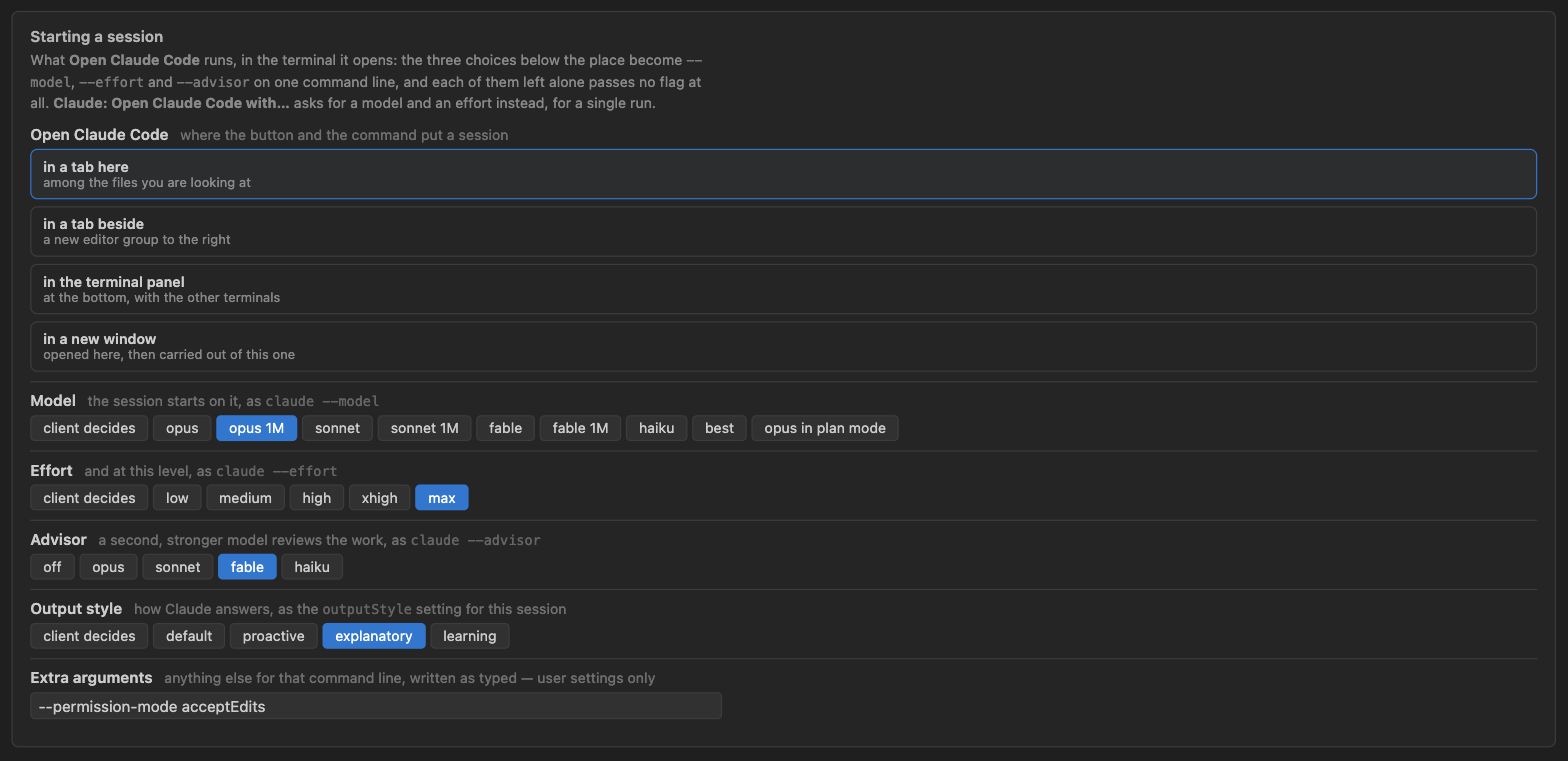
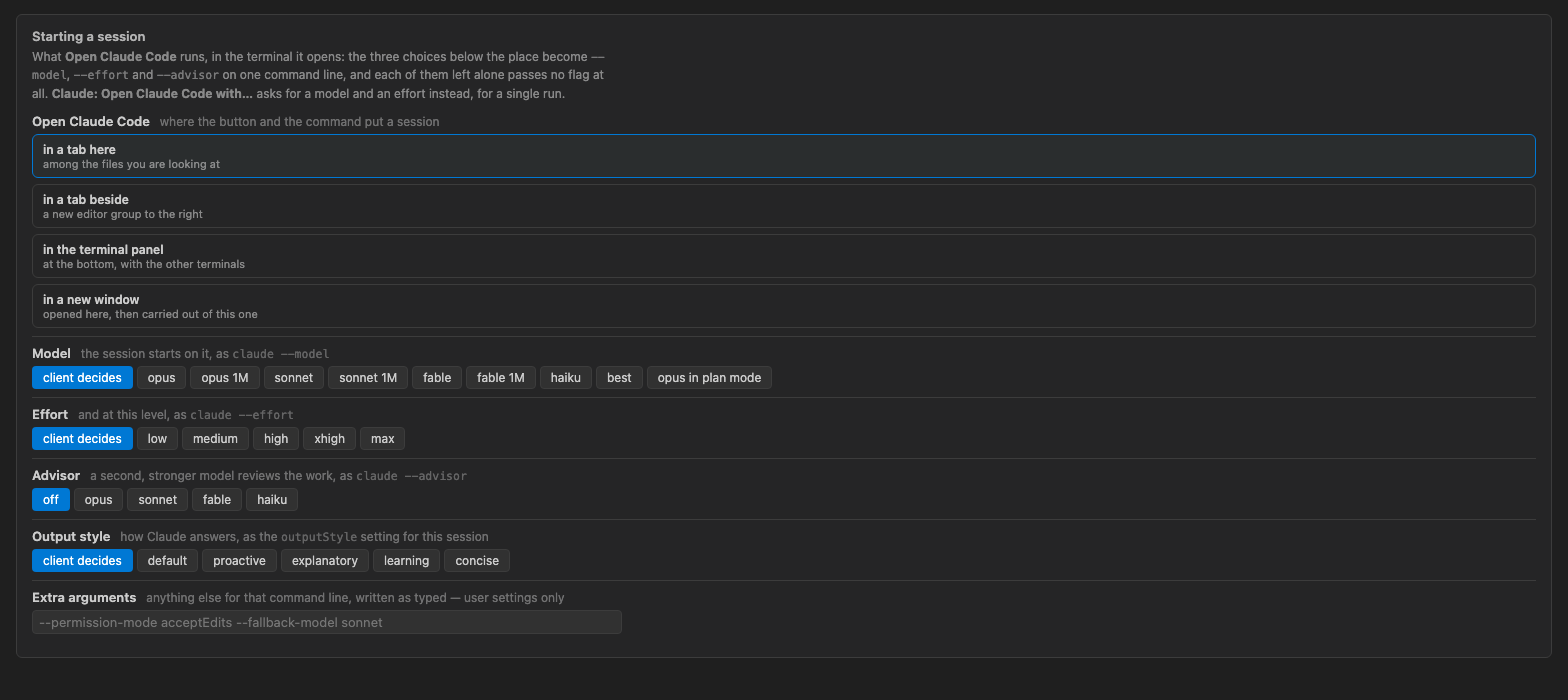
fix(session): the panel shows the style the session was actually started with
The client has no `--output-style` flag, so "Open Claude Code with…" puts the
style in `--settings` JSON. The session panel then read it back out of the
settings files, where it had never been written, and drew nothing — so the one
setting this extension is best placed to know was the one it never showed. On a
machine that launches its sessions from the dashboard, that is every session.

It now comes off the session's own command line, through the `ps` call that was
already there for parent pids, with the same Windows branch and the same
timeout. The argument beats the file on purpose rather than as a tie-break: the
client compiles the style into the system prompt at session start and does not
reload it, so a file edited since then states what the next session will get,
not what this one is running.

Nobody noticed because the terminal statusline shows the style all along — the
client hands it one directly. A neighbouring product being right is a good way
to stay wrong.

Added on the way: `Concise`, the style the client shipped in 2.1.237, which
could not be picked here at all. The list is a closed one — a claim about
someone else's release — and it had gone stale silently while the comment above
it still said there were four. The listing shot of the launch panel showed the
old five chips, so it is re-shot; nothing else about that picture changed.

Changed region(s): [[0.0, 0.03, 1.0, 0.96]]

diff --git a/session.js b/session.js
@@ -593,15 +593,69 @@ function compareVersions(a, b) {
     return 0;
 }
 
-// Settings the transcript does not carry — output style and advisor model —
-// read from the same chain the client reads.
-function settingsOf(workspace, chain) {
+/**
+ * The output style a running session was started with, out of its own command
+ * line. The client has no `--output-style` flag, so this extension launches a
+ * session by putting the style in `--settings` JSON — and that is the one place
+ * it exists: the transcript does not carry it, and neither does the session
+ * registry. Reading it back out of the settings chain alone left the pill blank
+ * for every session the extension itself had started.
+ *
+ * Parsed by walking the braces rather than by a regular expression, so a value
+ * containing `}` cannot end the object early.
+ */
+function styleFromArgs(args) {
+    const line = String(args || '');
+    const flag = line.indexOf('--settings');
+    if (flag < 0) return '';
+    const open = line.indexOf('{', flag);
+    if (open < 0) return '';
+    let depth = 0, inString = false, escaped = false, end = -1;
+    for (let i = open; i < line.length; i++) {
+        const c = line[i];
+        if (escaped) { escaped = false; continue; }
+        if (c === '\\') { escaped = true; continue; }
+        if (c === '"') { inString = !inString; continue; }
+        if (inString) continue;
+        if (c === '{') depth++;
+        else if (c === '}' && --depth === 0) { end = i + 1; break; }
+    }
+    if (end < 0) return '';
+    try {
+        const parsed = JSON.parse(line.slice(open, end));
+        return typeof parsed.outputStyle === 'string' ? parsed.outputStyle : '';
+    } catch { return ''; }
+}
+
+// One `ps` for one session, on the pattern `parentsOf` above already sets: the
+// same POSIX flags, the same early return on Windows, the same timeout, and a
+// failure that costs a blank rather than an exception.
+function styleOfSession(pid) {
+    if (!pid || process.platform === 'win32') return '';
+    try {
+        return styleFromArgs(execFileSync('ps', ['-o', 'args=', '-p', String(pid)],
+            { encoding: 'utf8', timeout: 3000 }));
+    } catch { return ''; }
+}
+
+/**
+ * Settings the transcript does not carry, read from the same chain the client
+ * reads. The advisor is here for the session panel's convenience rather than
+ * from necessity — the transcript states `advisorModel` too, and `contextOf`
+ * takes it from there.
+ *
+ * `argStyle` is what the session was actually started with, and it beats the
+ * file. Not a tie-break: the client compiles the style into the system prompt
+ * at session start and does not reload it, so a file edited since then states
+ * what the next session will get, not what this one is running.
+ */
+function settingsOf(workspace, chain, argStyle) {
     const files = chain || settingsChain(workspace);
     const at = (key) => resolveSetting(files, key);
     const thinking = at('alwaysThinkingEnabled');
     const summaries = at('showThinkingSummaries');
     return {
-        outputStyle: at('outputStyle')?.value || '',
+        outputStyle: argStyle || at('outputStyle')?.value || '',
         advisor: at('advisorModel')?.value || '',
         model: at('model')?.value || '',
         thinking: thinking ? thinking.value !== false : true,
@@ -624,5 +678,5 @@ module.exports = {
     transcriptPath, readTail, contextOf,
     windowFor, sessionStats, contextParts, costToday, costSince, peersOf, todoOf,
     autoCompactPct, versionInfo, compareVersions, settingsOf, fmtDuration,
-    settingsFiles, settingsChain, resolveSetting, MANAGED,
+    settingsFiles, settingsChain, resolveSetting, styleFromArgs, styleOfSession, MANAGED,
 };

diff --git a/test/session.test.js b/test/session.test.js
@@ -321,6 +321,45 @@ test('resolveSetting names the file that won and the ones it shadowed', () => {
     assert.equal(s.resolveSetting(chainOf(['user', { x: null }]), 'x'), null);
 });
 
+// The one setting that does not travel in a file. The client has no
+// `--output-style` flag, so this extension launches a session by putting the
+// style in `--settings` JSON — and then read it back out of the settings chain,
+// where it had never been written. The pill was blank for every session the
+// extension itself had started, which is all of them on this machine, and the
+// terminal statusline showed the style all along because the client hands it
+// one directly.
+test('the style of a session is read from how the session was started', () => {
+    const style = (args) => s.styleFromArgs(args);
+
+    // The shape this extension actually produces, as `ps -o args=` prints it.
+    assert.equal(style('claude --model opus[1m] --effort max --settings {"outputStyle":"Explanatory"}'), 'Explanatory');
+    // Order is not promised, and neither is being last on the line.
+    assert.equal(style('claude --settings {"outputStyle":"Concise"} --effort high'), 'Concise');
+    // A settings object stating more than the style, and one stating none.
+    assert.equal(style('claude --settings {"outputStyle":"Learning","model":"opus"}'), 'Learning');
+    assert.equal(style('claude --settings {"model":"opus"}'), '');
+
+    // Nothing to find, and nothing that should throw.
+    assert.equal(style('claude --model opus'), '');
+    assert.equal(style(''), '');
+    assert.equal(style('claude --settings'), '');
+    assert.equal(style('claude --settings not-json'), '');
+    assert.equal(style('claude --settings {"outputStyle":'), '');
+    assert.equal(style(undefined), '');
+
+    // A style named by an argument beats one named by a file, and this is the
+    // whole point rather than a tie-break: the client compiles the style into
+    // the system prompt at session start, so a file edited since then states
+    // what the NEXT session will get, not what this one is running.
+    const chain = chainOf(['user', { outputStyle: 'Learning', advisorModel: 'fable' }]);
+    assert.equal(s.settingsOf('/work', chain).outputStyle, 'Learning');
+    assert.equal(s.settingsOf('/work', chain, 'Explanatory').outputStyle, 'Explanatory');
+    // The file still answers when the session was started without one.
+    assert.equal(s.settingsOf('/work', chain, '').outputStyle, 'Learning');
+    // And nothing else in the answer moves.
+    assert.equal(s.settingsOf('/work', chain, 'Explanatory').advisor, 'fable');
+});
+
 test('both readers answer from the chain they are given', () => {
     const chain = chainOf(['local', { alwaysThinkingEnabled: false }], ['user', {
         alwaysThinkingEnabled: true, advisorModel: 'fable', showThinkingSummaries: false,

diff --git a/test/extension.test.js b/test/extension.test.js
@@ -257,6 +257,21 @@ test('the manifest offers exactly the models and efforts the page does', () => {
     }
 });
 
+// The list is a closed one, so it is a claim about the client rather than a
+// menu of our own — and a claim that goes stale on somebody else's release. It
+// did: `Concise` shipped in 2.1.237 and could not be picked here at all, while
+// the comment above the list still said there were four. Names come from the
+// client's own strings; the docs were still listing four when this was written.
+test('every output style the client ships can be picked here', () => {
+    const names = db.STYLES.map(([value]) => value);
+    assert.deepEqual(names, ['', 'default', 'Proactive', 'Explanatory', 'Learning', 'Concise']);
+    // Capitalised exactly as the client spells them, because the value travels
+    // verbatim into `--settings` and an unknown style is simply ignored there.
+    for (const name of names.filter(Boolean).filter((n) => n !== 'default')) {
+        assert.match(name, /^[A-Z]/, `${name} must match the client's own spelling`);
+    }
+});
+
 test('a workspace cannot supply the free-text launch arguments', () => {
     const manifest = JSON.parse(fs.readFileSync(path.join(__dirname, '..', 'package.json'), 'utf8'));
     const props = manifest.contributes.configuration.properties;

diff --git a/tools/preview.js b/tools/preview.js
@@ -103,7 +103,12 @@ const html = db.render(index, total, demo ? { ...demo.meta, system: snap } : {
         const stats = own ? sess.sessionStats(sess.transcriptPath(REPO, own.sessionId)) : null;
         return status.statusSections({
             now: nowS, limits: lim, weekly: lim.weekly, session: lim.session, scoped: lim.scoped, pace,
-            ctx, stats, settings: sess.settingsOf(REPO), version: sess.versionInfo(own && own.version),
+            // The session's own pid, so the style resolves here the way it does
+            // in the editor: it lives on the command line, not in a file. A
+            // preview that read the chain alone would draw a page this machine
+            // never shows, which is the one thing this tool may not do.
+            ctx, stats, version: sess.versionInfo(own && own.version),
+            settings: sess.settingsOf(REPO, null, sess.styleOfSession(own && own.pid)),
             compactPct: sess.autoCompactPct(REPO, ctx ? ctx.window : 0), todayUsd: sess.costToday().usd,
             peers: own ? sess.peersOf(REPO, own.sessionId) : null, todo: own ? sess.todoOf(own.sessionId) : null,
         }, {

diff --git a/dashboard.js b/dashboard.js
@@ -2355,13 +2355,21 @@ const ADVISORS = [
     ['', 'off'],
     ['opus', 'opus'], ['sonnet', 'sonnet'], ['fable', 'fable'], ['haiku', 'haiku'],
 ];
-// The client's four built-in output styles. A style of your own is a file under
+// The client's built-in output styles, spelled as the client spells them: the
+// value travels verbatim into `--settings`, and one it does not recognise is
+// ignored rather than reported. A style of your own is a file under
 // `~/.claude/output-styles`, and its name goes in the extra arguments — there is
 // no flag for any of this, so it travels as `--settings` JSON.
+//
+// A closed list is a claim about somebody else's release, and it goes stale
+// silently: `Concise` shipped in 2.1.237 and this list, which had said "four
+// built-in" since the beginning, quietly stopped offering everything the client
+// had. The names are in the client binary before they are in its documentation.
 const STYLES = [
     ['', 'client decides'],
     ['default', 'default'], ['Proactive', 'proactive'],
     ['Explanatory', 'explanatory'], ['Learning', 'learning'],
+    ['Concise', 'concise'],
 ];
 
 /**

diff --git a/extension.js b/extension.js
@@ -680,7 +680,11 @@ function collectSlow(state) {
         const budget = sys.contextBudget(sys.ROOT, [state.workspace], [s.slugFor(state.workspace)]);
         d.memoryTokens = (budget.files || []).reduce((sum, f) => sum + f.tokens, 0);
         state.compactPct = s.autoCompactPct(state.workspace, state.context?.window || 0);
-        state.settings = s.settingsOf(state.workspace);
+        // The style comes off the session's own command line, because that is
+        // where this extension put it when it launched the session — see
+        // `styleFromArgs`. The settings chain answers for everything else, and
+        // for the style too when the session was started some other way.
+        state.settings = s.settingsOf(state.workspace, null, s.styleOfSession(state.session.pid));
         state.version = s.versionInfo(state.session.version);
         d.compactPct = state.compactPct;
         d.settings = state.settings;

diff --git a/README.md b/README.md
@@ -464,7 +464,7 @@ All of these apply the moment they change — none needs a window reload.
 | `claudeStatusline.model` | `""` | Start the session on this model, as `claude --model <alias>` — the aliases the client accepts: `opus`, `opus[1m]`, `sonnet`, `sonnet[1m]`, `fable`, `fable[1m]`, `haiku`, `best`, `opusplan`. A `[1m]` entry is the million-token variant of that model, not a duplicate of it. Empty passes no flag and leaves the choice to the client |
 | `claudeStatusline.effort` | `""` | Start it at this effort, as `claude --effort <level>` — `low`, `medium`, `high`, `xhigh`, `max`. Empty passes no flag |
 | `claudeStatusline.advisor` | `""` | Turn on the server-side advisor for the session, as `claude --advisor <model>` — `opus`, `sonnet`, `fable`, `haiku`. The client hides this flag from its `--help`; empty passes no flag and leaves the client's own `advisorModel` alone |
-| `claudeStatusline.outputStyle` | `""` | Ask for an output style for the session — `default`, `Proactive`, `Explanatory`, `Learning`. There is no flag for it: `outputStyle` is a setting, so it travels as `--settings '{"outputStyle":"…"}'`, which merges with your settings files rather than replacing them. A style of your own goes through `launchArgs` by name |
+| `claudeStatusline.outputStyle` | `""` | Ask for an output style for the session — `default`, `Proactive`, `Explanatory`, `Learning`, `Concise`. There is no flag for it: `outputStyle` is a setting, so it travels as `--settings '{"outputStyle":"…"}'`, which merges with your settings files rather than replacing them. A style of your own goes through `launchArgs` by name |
 | `claudeStatusline.launchArgs` | `""` | Anything else for the command line, after those two — `--permission-mode acceptEdits`, an exact model id. Written as typed, so quoting is yours. User settings only: a project cannot set it through `.vscode/settings.json` |
 | `claudeStatusline.renameTabs` | `true` | Name each terminal opened by **Open Claude Code** after the session running in it, following `/rename` and the generated title. Only terminals this extension opened, and only while one of them is the active terminal — VS Code's rename acts on the active terminal |
 | `claudeStatusline.refreshInterval` | `60` | Refresh period for limits and session stats, seconds |

diff --git a/CHANGELOG.md b/CHANGELOG.md
@@ -9,6 +9,29 @@ Everything below 0.20.0 was built and installed on one machine — the extension
 had not been published yet. The history is kept anyway: it is what the dashboard
 grew out of, and a version that shipped nothing is worth saying so.
 
+## [0.40.1] — 2026-08-20
+
+### Added
+
+- **`Concise`, the output style the client added in 2.1.237**, can be picked
+  when starting a session. The list of styles is a closed one — a claim about
+  someone else's release — and it had gone stale silently: the comment above it
+  still said there were four.
+
+### Fixed
+
+- **The session panel never showed the output style of a session this extension
+  had started** — which, on a machine that launches its sessions from the
+  dashboard, is all of them. The client has no `--output-style` flag, so
+  "Open Claude Code with…" puts the style in `--settings` JSON; the panel then
+  read it back out of the settings files, where it had never been written, and
+  drew nothing. It now comes off the session's own command line, and that beats
+  the file on purpose: the client compiles the style into the system prompt at
+  session start, so a file edited since then says what the *next* session will
+  get, not what this one is running. The terminal statusline had shown the style
+  all along, because the client hands it one directly — which is exactly why
+  nobody noticed the panel was silent.
+
 ## [0.40.0] — 2026-08-19
 
 ### Changed
